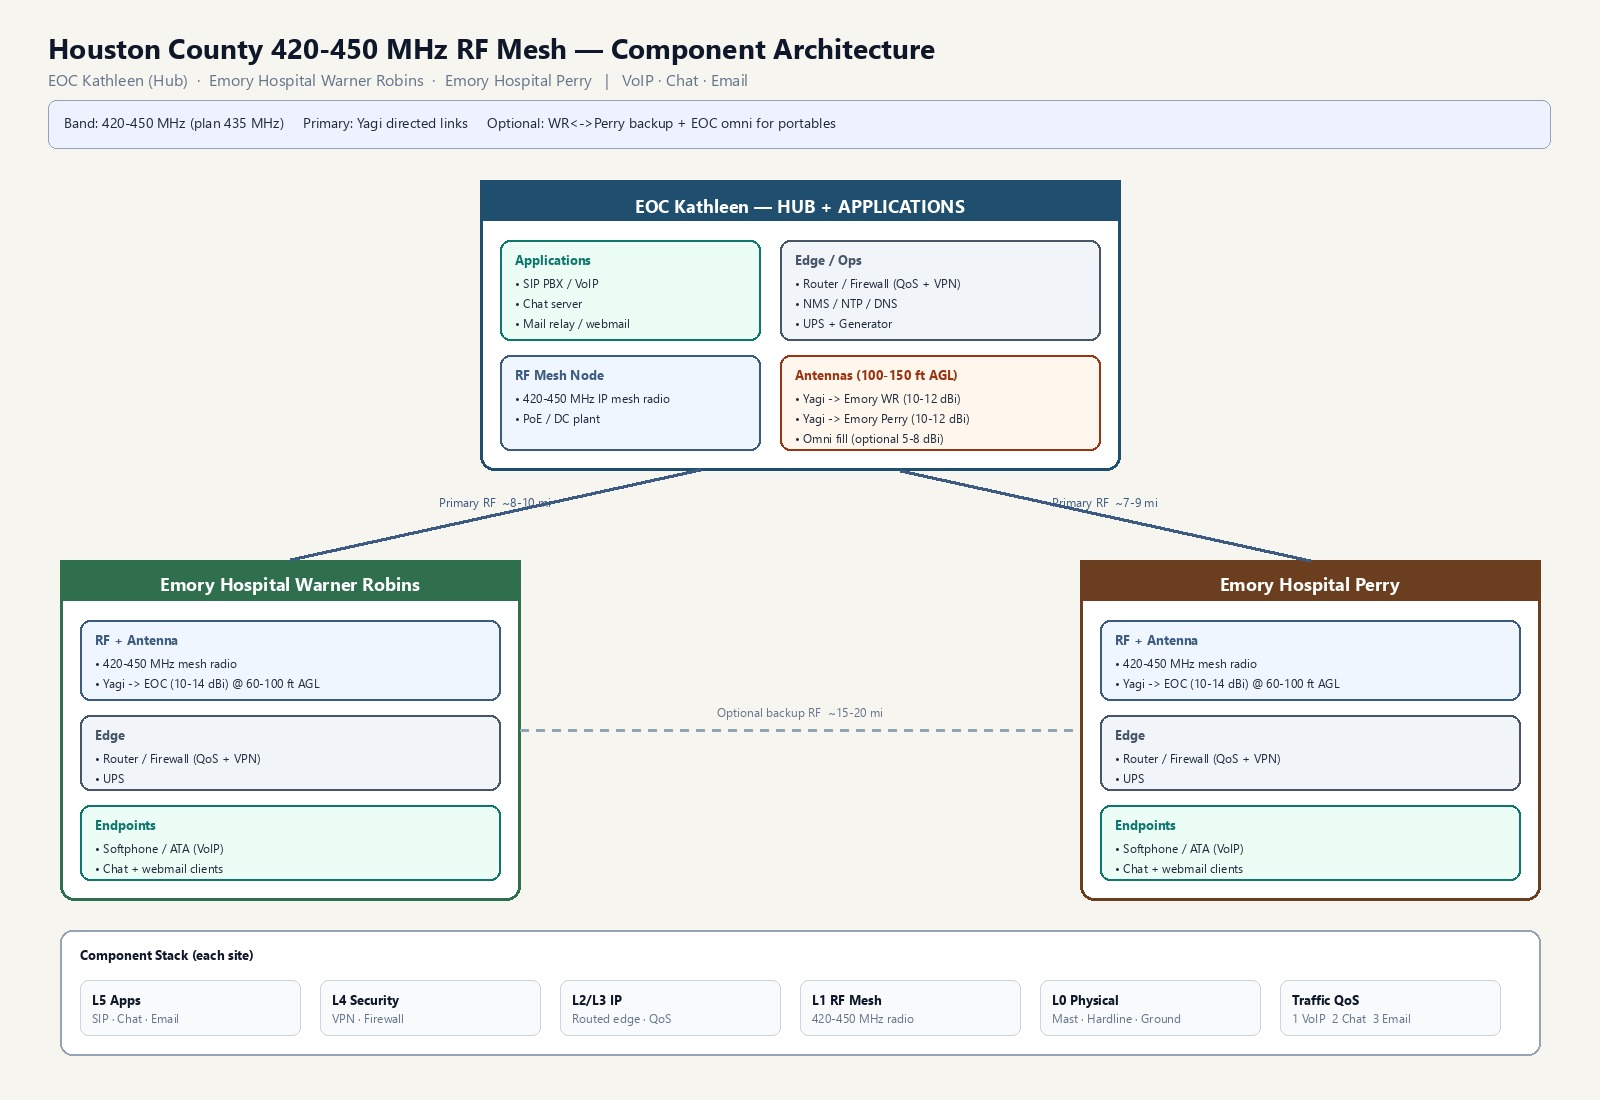
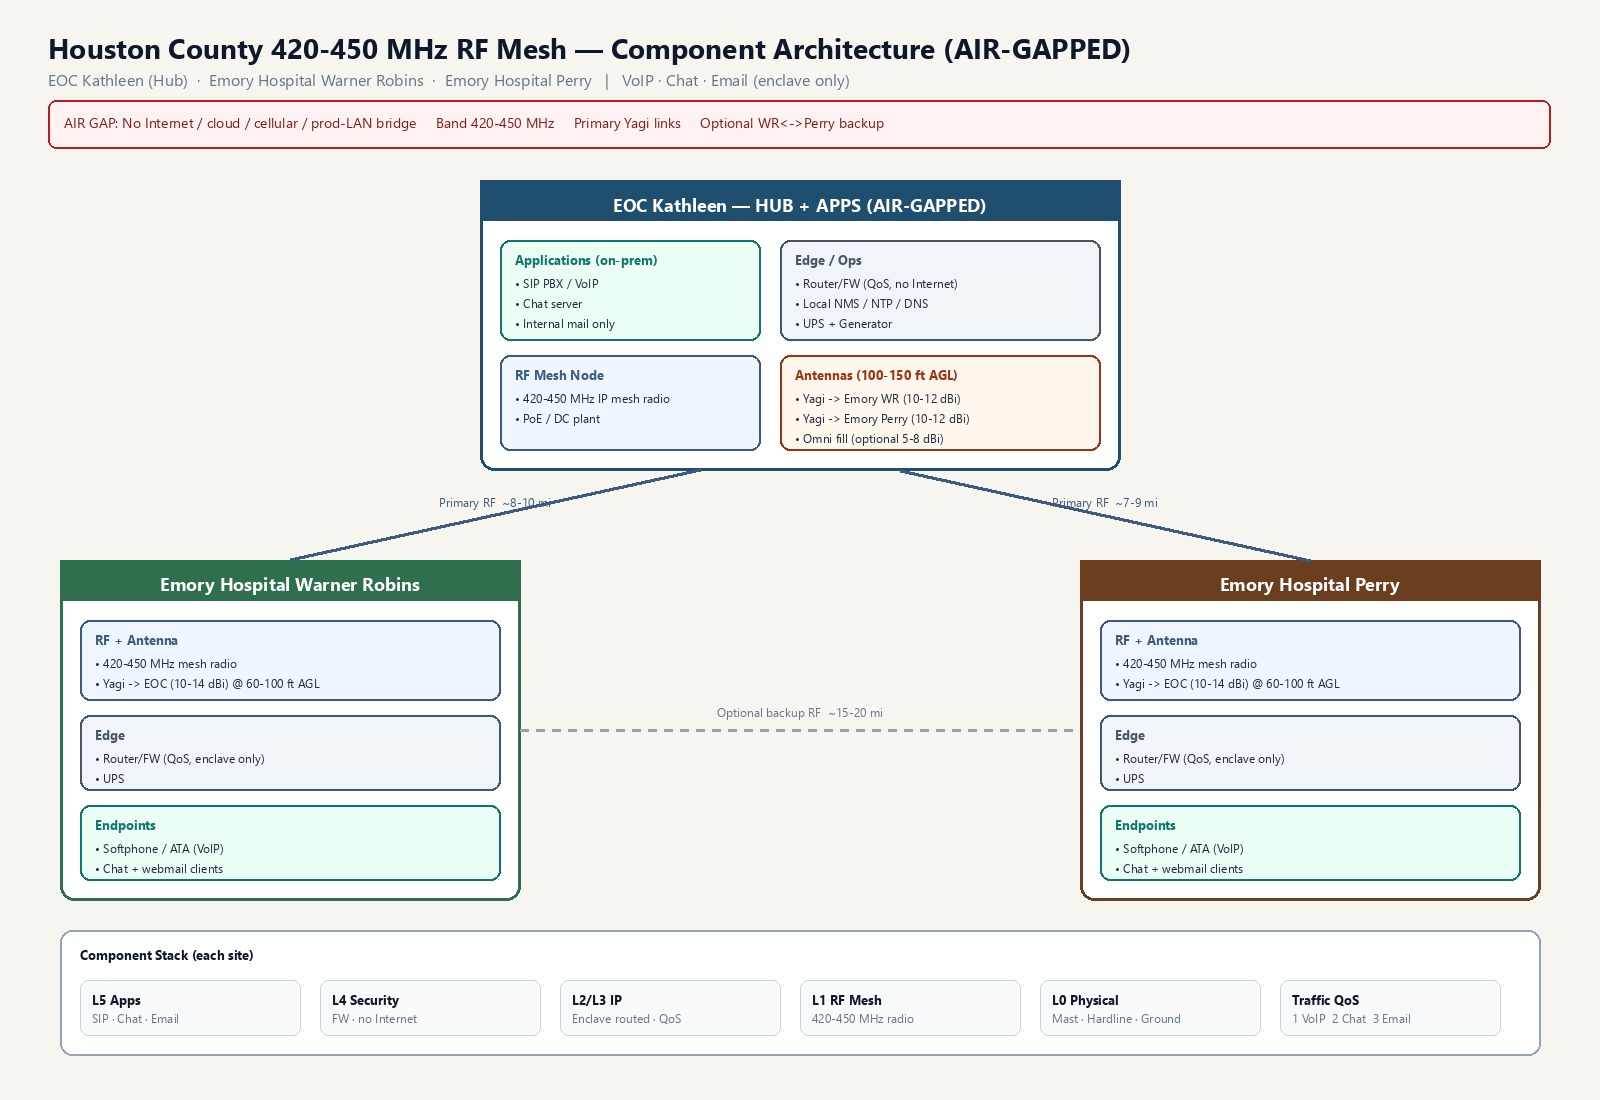
Declare the 420-450 MHz RF mesh as an air-gapped enclave.
Update architecture, diagrams, and BOM notes so apps stay on-prem with no Internet or production-LAN bridge.

diff --git a/render_equipment_jpg.py b/render_equipment_jpg.py
@@ -62,13 +62,13 @@ def equip_rows(x, y, width, rows, accent):
 
 d.text(
     (36, 20),
-    "420-450 MHz RF Mesh — Equipment Pieces (Hardware BOM)",
+    "420-450 MHz RF Mesh — Equipment Pieces (AIR-GAPPED)",
     font=f_title,
     fill="#0F172A",
 )
 d.text(
     (36, 54),
-    "What physical gear makes up the architecture  |  Qty badges show planning quantities  |  Band: 420-450 MHz",
+    "Air-gapped enclave: no Internet/cloud/prod-LAN gear  |  Qty = planning quantities  |  Band: 420-450 MHz",
     font=f_sub,
     fill=MUTED,
 )
@@ -90,12 +90,12 @@ equip_rows(
         (1, "Omni collinear 5-8 dBi", "Optional portable / local fill"),
         (1, "420-450 MHz mesh IP radio", "Hub RF node"),
         (1, "Hardline + polyphasers", "1/2 in or 7/8 in feedline plant"),
-        (1, "Router / firewall", "QoS + site-to-site VPN"),
+        (1, "Router / firewall", "QoS; NO Internet WAN route"),
         (1, "PoE / DC power plant", "Powers outdoor radio"),
-        (1, "Managed PoE switch", "Small site LAN"),
-        (1, "SIP PBX server/appliance", "VoIP for all three sites"),
-        (1, "Chat + mail relay host", "Apps terminate at EOC"),
-        (1, "NMS / monitoring", "May share app host"),
+        (1, "Managed PoE switch", "Enclave VLAN only"),
+        (1, "SIP PBX server/appliance", "On-prem VoIP (no cloud)"),
+        (1, "Chat + internal mail host", "Enclave apps at EOC"),
+        (1, "Local NMS / NTP / DNS", "No public time/DNS"),
         (1, "UPS + generator circuit", "Hub power survivability"),
         (2, "Continuity workstations", "Softphone, chat, webmail"),
         (1, "NEMA / cable entry kit", "Weatherproof I/O"),
@@ -115,12 +115,12 @@ equip_rows(
         (1, "420-450 MHz mesh IP radio", "Spoke RF node"),
         (1, "Hardline + polyphaser", "Roof to telecom closet"),
         (1, "Grounding kit", "Bond to building ground"),
-        (1, "Router / firewall", "QoS + VPN to EOC"),
+        (1, "Router / firewall", "QoS; enclave only (no WAN)"),
         (1, "PoE / DC injector", "Radio power"),
-        (1, "Small PoE switch", "Continuity VLAN"),
+        (1, "Small PoE switch", "Enclave VLAN (not EHR)"),
         (1, "UPS", "Spoke survivability"),
-        (2, "Softphone or ATA", "VoIP endpoints"),
-        (2, "PCs / thin clients", "Chat + webmail"),
+        (2, "Softphone or ATA", "Mesh-only VoIP"),
+        (2, "PCs / thin clients", "Enclave chat + mail"),
         (1, "NEMA / mount hardware", "Hospital roof approved"),
         (1, "Optional 2nd Yagi", "Only if WR-Perry backup built"),
         (1, "Optional 2nd mesh radio", "Dedicated backup path"),
@@ -140,12 +140,12 @@ equip_rows(
         (1, "420-450 MHz mesh IP radio", "Spoke RF node"),
         (1, "Hardline + polyphaser", "Roof to telecom closet"),
         (1, "Grounding kit", "Bond to building ground"),
-        (1, "Router / firewall", "QoS + VPN to EOC"),
+        (1, "Router / firewall", "QoS; enclave only (no WAN)"),
         (1, "PoE / DC injector", "Radio power"),
-        (1, "Small PoE switch", "Continuity VLAN"),
+        (1, "Small PoE switch", "Enclave VLAN (not EHR)"),
         (1, "UPS", "Spoke survivability"),
-        (2, "Softphone or ATA", "VoIP endpoints"),
-        (2, "PCs / thin clients", "Chat + webmail"),
+        (2, "Softphone or ATA", "Mesh-only VoIP"),
+        (2, "PCs / thin clients", "Enclave chat + mail"),
         (1, "NEMA / mount hardware", "Hospital roof approved"),
         (1, "Optional 2nd Yagi", "Only if WR-Perry backup built"),
         (1, "Optional 2nd mesh radio", "Dedicated backup path"),
@@ -165,8 +165,8 @@ shared = [
     (2, "Portable mesh kits", "Tactical / parking"),
     (1, "Alignment / test kit", "Install & maint"),
     (1, "Freq authorization file", "License / agency ID"),
-    (1, "Config / cert backups", "Disaster recovery"),
-    (1, "Acceptance test tools", "iperf, SIP, SNR"),
+    (1, "Offline patch media kit", "Sneaker-net updates"),
+    (1, "Air-gap audit checklist", "No WAN / no EHR bridge"),
 ]
 sx = 52
 for qty, name, note in shared:

diff --git a/render_architecture_jpg.py b/render_architecture_jpg.py
@@ -54,40 +54,40 @@ def bullet_block(x, y, lines, fnt, fill="#1E293B", line_h=20):
 
 d.text(
     (48, 28),
-    "Houston County 420-450 MHz RF Mesh — Component Architecture",
+    "Houston County 420-450 MHz RF Mesh — Component Architecture (AIR-GAPPED)",
     font=f_title,
     fill="#0F172A",
 )
 d.text(
     (48, 68),
-    "EOC Kathleen (Hub)  ·  Emory Hospital Warner Robins  ·  Emory Hospital Perry   |   VoIP · Chat · Email",
+    "EOC Kathleen (Hub)  ·  Emory Hospital Warner Robins  ·  Emory Hospital Perry   |   VoIP · Chat · Email (enclave only)",
     font=f_sub,
     fill=MUTED,
 )
 
-rounded_rect((48, 100, 1550, 148), "#EEF2FF", "#94A3B8", 1, 8)
+rounded_rect((48, 100, 1550, 148), "#FEF2F2", "#B91C1C", 2, 8)
 d.text(
     (64, 112),
-    "Band: 420-450 MHz (plan 435 MHz)     Primary: Yagi directed links     Optional: WR<->Perry backup + EOC omni for portables",
+    "AIR GAP: No Internet / cloud / cellular / prod-LAN bridge     Band 420-450 MHz     Primary Yagi links     Optional WR<->Perry backup",
     font=f_body,
-    fill="#1E293B",
+    fill="#7F1D1D",
 )
 
 # EOC hub
 rounded_rect((480, 180, 1120, 470), BOX_BG, EOC, 3, 14)
 d.rectangle((480, 180, 1120, 220), fill=EOC)
-text_center(800, 200, "EOC Kathleen — HUB + APPLICATIONS", f_site, "#FFFFFF")
+text_center(800, 200, "EOC Kathleen — HUB + APPS (AIR-GAPPED)", f_site, "#FFFFFF")
 
 rounded_rect((500, 240, 760, 340), "#ECFDF5", APP, 2, 10)
-d.text((515, 250), "Applications", font=f_label, fill=APP)
-bullet_block(515, 275, ["• SIP PBX / VoIP", "• Chat server", "• Mail relay / webmail"], f_small)
+d.text((515, 250), "Applications (on-prem)", font=f_label, fill=APP)
+bullet_block(515, 275, ["• SIP PBX / VoIP", "• Chat server", "• Internal mail only"], f_small)
 
 rounded_rect((780, 240, 1100, 340), "#F1F5F9", EDGE, 2, 10)
 d.text((795, 250), "Edge / Ops", font=f_label, fill=EDGE)
 bullet_block(
     795,
     275,
-    ["• Router / Firewall (QoS + VPN)", "• NMS / NTP / DNS", "• UPS + Generator"],
+    ["• Router/FW (QoS, no Internet)", "• Local NMS / NTP / DNS", "• UPS + Generator"],
     f_small,
 )
 
@@ -124,7 +124,7 @@ bullet_block(
 
 rounded_rect((80, 715, 500, 790), "#F1F5F9", EDGE, 2, 10)
 d.text((95, 725), "Edge", font=f_label, fill=EDGE)
-bullet_block(95, 750, ["• Router / Firewall (QoS + VPN)", "• UPS"], f_small)
+bullet_block(95, 750, ["• Router/FW (QoS, enclave only)", "• UPS"], f_small)
 
 rounded_rect((80, 805, 500, 880), "#ECFDF5", APP, 2, 10)
 d.text((95, 815), "Endpoints", font=f_label, fill=APP)
@@ -146,7 +146,7 @@ bullet_block(
 
 rounded_rect((1100, 715, 1520, 790), "#F1F5F9", EDGE, 2, 10)
 d.text((1115, 725), "Edge", font=f_label, fill=EDGE)
-bullet_block(1115, 750, ["• Router / Firewall (QoS + VPN)", "• UPS"], f_small)
+bullet_block(1115, 750, ["• Router/FW (QoS, enclave only)", "• UPS"], f_small)
 
 rounded_rect((1100, 805, 1520, 880), "#ECFDF5", APP, 2, 10)
 d.text((1115, 815), "Endpoints", font=f_label, fill=APP)
@@ -169,8 +169,8 @@ rounded_rect((60, 930, 1540, 1055), BOX_BG, "#94A3B8", 2, 12)
 d.text((80, 945), "Component Stack (each site)", font=f_label, fill="#0F172A")
 layers = [
     (80, "L5 Apps", "SIP · Chat · Email"),
-    (320, "L4 Security", "VPN · Firewall"),
-    (560, "L2/L3 IP", "Routed edge · QoS"),
+    (320, "L4 Security", "FW · no Internet"),
+    (560, "L2/L3 IP", "Enclave routed · QoS"),
     (800, "L1 RF Mesh", "420-450 MHz radio"),
     (1040, "L0 Physical", "Mast · Hardline · Ground"),
     (1280, "Traffic QoS", "1 VoIP  2 Chat  3 Email"),

diff --git a/420-450MHz_RF_Mesh_Architecture.md b/420-450MHz_RF_Mesh_Architecture.md
@@ -6,8 +6,9 @@
 | Sites | EOC (Kathleen), Emory Hospital Warner Robins, Emory Hospital Perry |
 | Band | **420–450 MHz** (licensed / authorized UHF; coordinate exact channels) |
 | Topology | Hub-and-spoke RF mesh with optional cross-link |
-| Apps | VoIP, Chat, Email |
-| Version | 1.1 |
+| Isolation | **Air-gapped** — no Internet, cloud, or production-LAN dependency |
+| Apps | VoIP, Chat, Email (internal only) |
+| Version | 1.2 |
 | Date | 2026-03-11 |
 
 ---
@@ -20,18 +21,19 @@ Provide resilient, county-controlled IP connectivity among:
 2. **Emory Hospital Warner Robins** — 1601 Watson Blvd, Warner Robins, GA 31093  
 3. **Emory Hospital Perry** — 1120 Morningside Dr, Perry, GA 31069  
 
-for **voice (VoIP)**, **chat**, and **email** when commercial networks are degraded or unavailable.
+for **voice (VoIP)**, **chat**, and **email** on a **standalone air-gapped** network when commercial networks are degraded, unavailable, or must not be used.
 
 ---
 
 ## 2. Design Principles
 
-1. **EOC is the hub** — Kathleen sits between the hospitals; applications terminate/relay at the EOC.  
-2. **Directional RF on long hops** — Yagi (or sector) links for EOC↔hospital; not omni-to-omni for primary paths.  
-3. **Mesh for resilience** — fixed nodes can relay; optional WR↔Perry backup; portables may join via EOC omni.  
-4. **Bandwidth discipline** — 420–450 MHz UHF is capacity-limited; QoS protects voice; email is store-and-forward.  
-5. **RF is transport only** — SIP, chat, and mail are standard IP apps behind routers/VPN.  
-6. **Licensed / authorized operation** — FCC (or federal) authorization in **420–450 MHz**, EIRP limits, and coordination are mandatory.
+1. **Air-gapped enclave** — the mesh has **no** path to the public Internet, cellular/FirstNet data, Starlink, cloud SaaS, or hospital/county production LANs. All traffic stays on the three-site RF island.  
+2. **EOC is the hub** — Kathleen sits between the hospitals; applications terminate/relay **only** at the EOC.  
+3. **Directional RF on long hops** — Yagi (or sector) links for EOC↔hospital; not omni-to-omni for primary paths.  
+4. **Mesh for resilience** — fixed nodes can relay; optional WR↔Perry backup; portables may join via EOC omni **only if those portables are mesh-enclave devices**.  
+5. **Bandwidth discipline** — 420–450 MHz UHF is capacity-limited; QoS protects voice; email is store-and-forward.  
+6. **RF is transport only** — SIP, chat, and mail are standard IP apps on enclave routers (optional mesh-internal crypto).  
+7. **Licensed / authorized operation** — FCC (or federal) authorization in **420–450 MHz**, EIRP limits, and coordination are mandatory.
 
 ---
 
@@ -39,11 +41,12 @@ for **voice (VoIP)**, **chat**, and **email** when commercial networks are degra
 
 ```
                     ┌─────────────────────────────────────┐
-                    │     EOC Kathleen (HUB + APPS)        │
-                    │  SIP PBX · Chat · Mail Relay · NMS  │
-                    │  Edge Router (QoS/VPN) · UPS/Gen    │
+                    │  EOC Kathleen (HUB + APPS) AIR GAP  │
+                    │  SIP PBX · Chat · Mail · NMS        │
+                    │  Edge Router (QoS) · UPS/Gen        │
                     │  420–450 MHz Mesh Node              │
                     │  Yagi→WR | Yagi→Perry | Omni fill   │
+                    │  NO Internet / NO prod LAN bridge   │
                     └──────────────┬──────────────────────┘
                                    │
                  ┌─────────────────┼─────────────────┐
@@ -64,9 +67,9 @@ for **voice (VoIP)**, **chat**, and **email** when commercial networks are degra
 | **L0 Site** | Mast, grounding, power, weatherproofing |
 | **L1 RF Mesh** | 420–450 MHz IP mesh radios, antennas |
 | **L2/L3 Transport** | Bridged or routed mesh; site subnets |
-| **L4 Security** | Site-to-site VPN, firewall |
-| **L5 Apps** | SIP VoIP, chat, email |
-| **L6 Ops** | Monitoring, spares, SOP, training |
+| **L4 Security** | Enclave firewall; optional mesh-internal IPsec; **no** Internet gateway |
+| **L5 Apps** | On-prem SIP VoIP, chat, email (**internal only**) |
+| **L6 Ops** | Offline monitoring, spares, SOP, sneaker-net updates |
 
 ---
 
@@ -157,24 +160,33 @@ Assumes 5 W, ~11–12 dBi Yagis tuned for **420–450 MHz**, ~4.5 dB total line/
 | Emory WR | 10.40.1.0/24 | 10.40.10.0/28 |
 | Emory Perry | 10.40.2.0/24 | 10.40.10.0/28 |
 
-- Mesh cloud: single L2 broadcast domain **or** routed (/30 or OSPF/BGP-lite per vendor).  
-- **Recommended:** **routed** sites + VPN overlays (cleaner QoS and failure domains).
+- Mesh fabric: single L2 broadcast domain **or** routed (/30 or OSPF/BGP-lite per vendor).  
+- **Recommended:** **routed** sites + optional **mesh-internal** IPsec/WireGuard (enclave-only; no Internet peer).
 
 ### 6.2 Site edge kit (all three)
 
 1. 420–450 MHz mesh radio  
-2. Ethernet to **firewall/router** with QoS  
-3. Managed PoE switch (small)  
+2. Ethernet to **firewall/router** with QoS — **default-deny WAN/Internet**  
+3. Managed PoE switch (small) on **continuity enclave VLAN only**  
 4. UPS (EOC: UPS + generator preferred)  
-5. Time sync (NTP from EOC)
+5. Time sync from **EOC local NTP stratum** (no public NTP)
 
-### 6.3 Security
+### 6.3 Air gap & security
 
-- **IPsec or WireGuard** site-to-site (hospital ↔ EOC).  
-- No open management on RF SSID/mesh without auth.  
-- Separate **ops** and **user** VLANs where practical.  
-- Hospital traffic subject to **HIPAA** controls (encryption in transit, access logging).  
-- Do not bridge raw hospital EHR LANs onto the mesh — only designated continuity endpoints.
+**Air gap (hard rules)**  
+- **No** default route to the Internet, ISP, cellular modem, FirstNet data, or satellite backhaul on enclave routers.  
+- **No** cloud PBX, cloud chat, cloud email, or SaaS telemetry.  
+- **No** bridge/route to hospital EHR/clinical LAN, guest Wi‑Fi, or county enterprise Internet edge.  
+- Continuity endpoints are **dedicated** (or dedicated NIC/VLAN) devices that speak **only** to the mesh enclave.  
+- Software, patches, and threat intel enter only via **controlled removable media / approved data diode / sneaker-net** SOP — never automatic online update.  
+- Name resolution and certificates are **EOC-local** (internal CA optional).
+
+**On-mesh controls**  
+- Firewall each site; optional **IPsec/WireGuard** hospital ↔ EOC for confidentiality on the RF hop.  
+- Authenticated mesh/radio management; no open join.  
+- Separate **ops** and **user** VLANs inside the enclave where practical.  
+- PHI/sensitive content stays inside the air gap; apply hospital policy for what may be typed into chat/mail on this island.  
+- Do **not** bridge raw hospital production LANs onto the mesh.
 
 ---
 
@@ -184,10 +196,10 @@ Assumes 5 W, ~11–12 dBi Yagis tuned for **420–450 MHz**, ~4.5 dB total line/
 
 | Application | Primary host | Hospital clients |
 |-------------|--------------|------------------|
-| **SIP PBX / registrar** | EOC | Softphones or ATAs on continuity VLAN |
-| **Chat server** | EOC | Desktop/mobile clients on continuity VLAN |
-| **Email** | EOC mail relay / webmail | MUA or webmail via VPN |
-| **DNS / NTP** | EOC | Point hospitals at EOC |
+| **SIP PBX / registrar** | EOC (on-prem only) | Softphones or ATAs on enclave VLAN |
+| **Chat server** | EOC (on-prem only) | Desktop clients on enclave VLAN |
+| **Email** | EOC internal mail / webmail | Enclave-only accounts (no Internet SMTP) |
+| **DNS / NTP / CA** | EOC local | Hospitals use EOC only |
 
 ### 7.2 VoIP
 
@@ -208,7 +220,8 @@ Assumes 5 W, ~11–12 dBi Yagis tuned for **420–450 MHz**, ~4.5 dB total line/
 - **Store-and-forward** at EOC.  
 - Size limits (e.g. 1–5 MB); strip/block large attachments on RF path.  
 - Queue and send when voice load is low; never starve RTP.  
-- Optional: webmail only (less chatty than sync IMAP).
+- Optional: enclave webmail only (less chatty than sync IMAP).  
+- **No** outbound SMTP/IMAP to the public Internet.
 
 ### 7.5 QoS policy (edge routers)
 
@@ -216,7 +229,7 @@ Assumes 5 W, ~11–12 dBi Yagis tuned for **420–450 MHz**, ~4.5 dB total line/
 |----------|---------|-----------|
 | 1 | SIP + RTP | Highest / EF / reserved bandwidth |
 | 2 | Chat | Assured forwarding |
-| 3 | VPN/control / NMS | Assured |
+| 3 | Mesh crypto / control / NMS | Assured |
 | 4 | Email | Best effort / rate-limited |
 | 5 | Bulk / other | Lowest / blocked on RF |
 
@@ -229,7 +242,7 @@ Assumes 5 W, ~11–12 dBi Yagis tuned for **420–450 MHz**, ~4.5 dB total line/
 | VoIP (×3 calls) | ~24–40 kbps up/down each | ~100–150 kbps |
 | Chat | ~5–20 kbps | ~20 kbps |
 | Email | Bursty | Cap **50–100 kbps** when calls active |
-| Overhead (VPN, mesh, IP) | — | +20–40% |
+| Overhead (mesh crypto, IP) | — | +20–40% |
 
 **Minimum useful RF throughput:** ~**300–500 kbps** stable bidirectional per spoke for comfortable multi-service; **~100–150 kbps** absolute floor for 1 call + chat.
 
@@ -311,7 +324,8 @@ If licensed channel only supports tens of kbps: **1 VoIP + chat**; email off-pea
 | License / EIRP cap | Lower margin | Higher antennas/gain; lower data rate modes |
 | No eligible **420–450 MHz** channels | Cannot transmit legally | Confirm federal/FCC eligibility before procurement |
 | Mesh relay path | Latency hurts VoIP | Prefer hub paths; relay = chat/backup voice |
-| Security/HIPAA | Compliance failure | VPN, endpoint control, no raw LAN bridge |
+| Air-gap breach (Internet/prod LAN plugged in) | Enclave compromise | Locked configs, sealed ports, audit SOP |
+| Sensitive data on island | Policy/compliance failure | Enclave-only endpoints; no EHR bridge; training |
 
 ---
 
@@ -330,12 +344,13 @@ If licensed channel only supports tens of kbps: **1 VoIP + chat**; email off-pea
 
 | Decision | Choice | Rationale |
 |----------|--------|-----------|
-| Band | **420–450 MHz** authorized UHF | Range/foliage; fixed design band; county/federal control |
+| Band | **420–450 MHz** authorized UHF | Range/foliage; no Internet-dependent SAS/cloud spectrum |
 | Topology | EOC hub mesh | Geography; app centralization |
+| Isolation | **Air-gapped** | Continuity without Internet or prod LAN |
 | Antennas | Yagi primary | Link budget at 7–10 mi |
-| Apps host | EOC | One RF hop to services |
-| Email | Store-and-forward | Protect VoIP |
-| 5.8/CBRS | Out of scope here | Alternate if broadband added later |
+| Apps host | EOC on-prem | One RF hop; no cloud apps |
+| Email | Internal store-and-forward | Protect VoIP; no Internet mail |
+| 5.8/CBRS | Out of scope | Would not stay air-gapped if cloud/SAS required |
 
 ---
 
@@ -345,8 +360,22 @@ If licensed channel only supports tens of kbps: **1 VoIP + chat**; email off-pea
 - **≥ 2** concurrent narrowband VoIP calls hub-spoke with acceptable MOS.  
 - Chat usable during those calls.  
 - Email delivers via EOC queue without dropping calls.  
-- Documented SOP and weekly test completed.
+- Documented SOP and weekly test completed.  
+- **Air-gap verification:** no Internet route, no prod-LAN bridge, enclave-only name resolution and apps.
 
 ---
 
-*End of architecture — 420–450 MHz RF Mesh (3-site).*
+## 16. Air-Gap Verification Checklist
+
+- [ ] Enclave routers have **no** WAN/Internet next hop  
+- [ ] No cellular/satellite modem attached to mesh switches  
+- [ ] Hospital mesh switch **not** trunked to EHR/clinical core  
+- [ ] SIP, chat, mail resolvable **only** via EOC internal DNS  
+- [ ] NTP is EOC-local (or GPS-disciplined clock with no IP Internet)  
+- [ ] Patch/update SOP is offline media only  
+- [ ] Portables on omni are enclave-owned devices  
+- [ ] Periodic audit: `traceroute` / default-route review at each site  
+
+---
+
+*End of architecture — 420–450 MHz air-gapped RF Mesh (3-site).*
